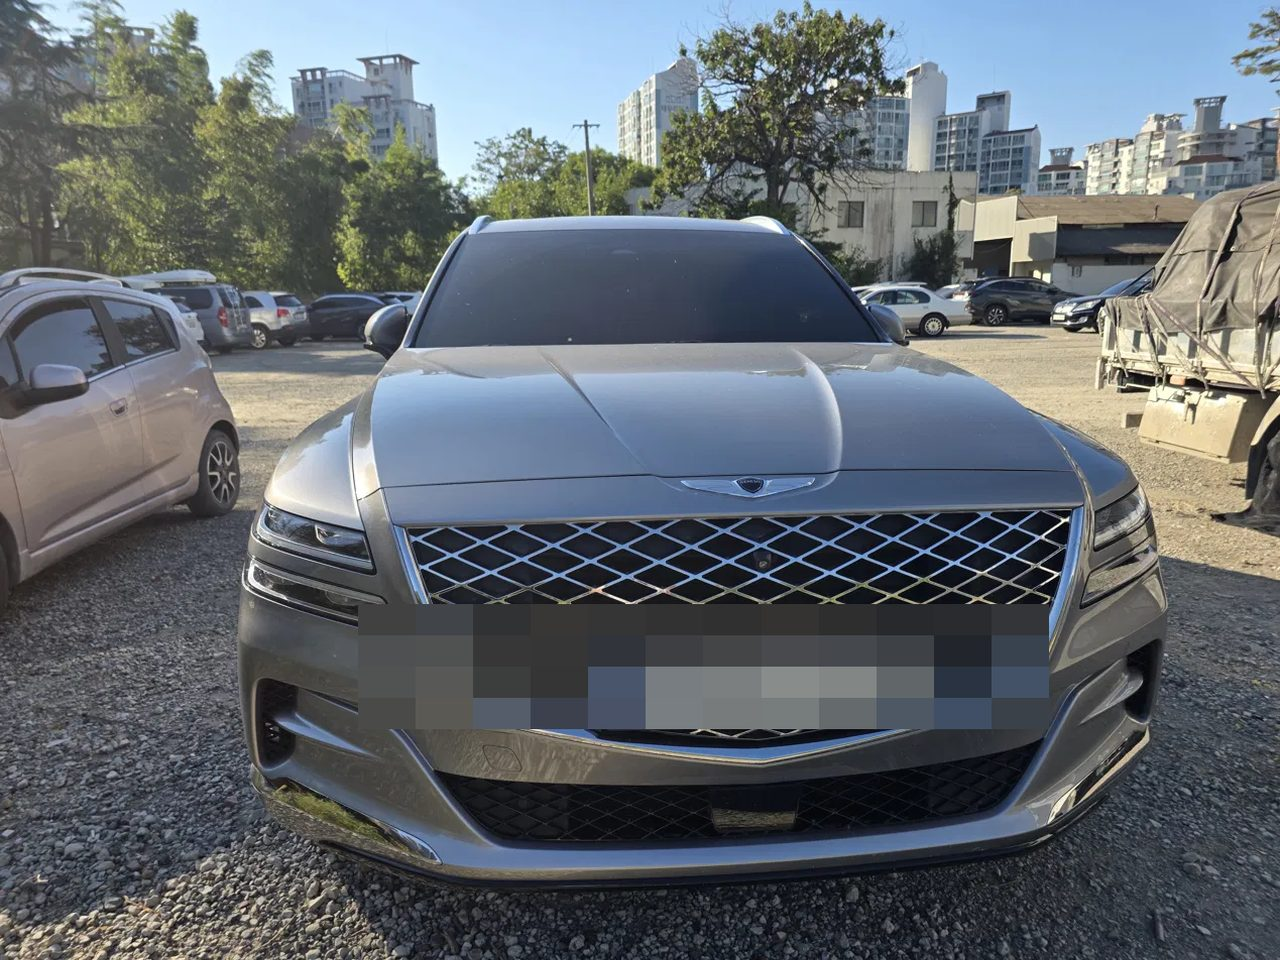
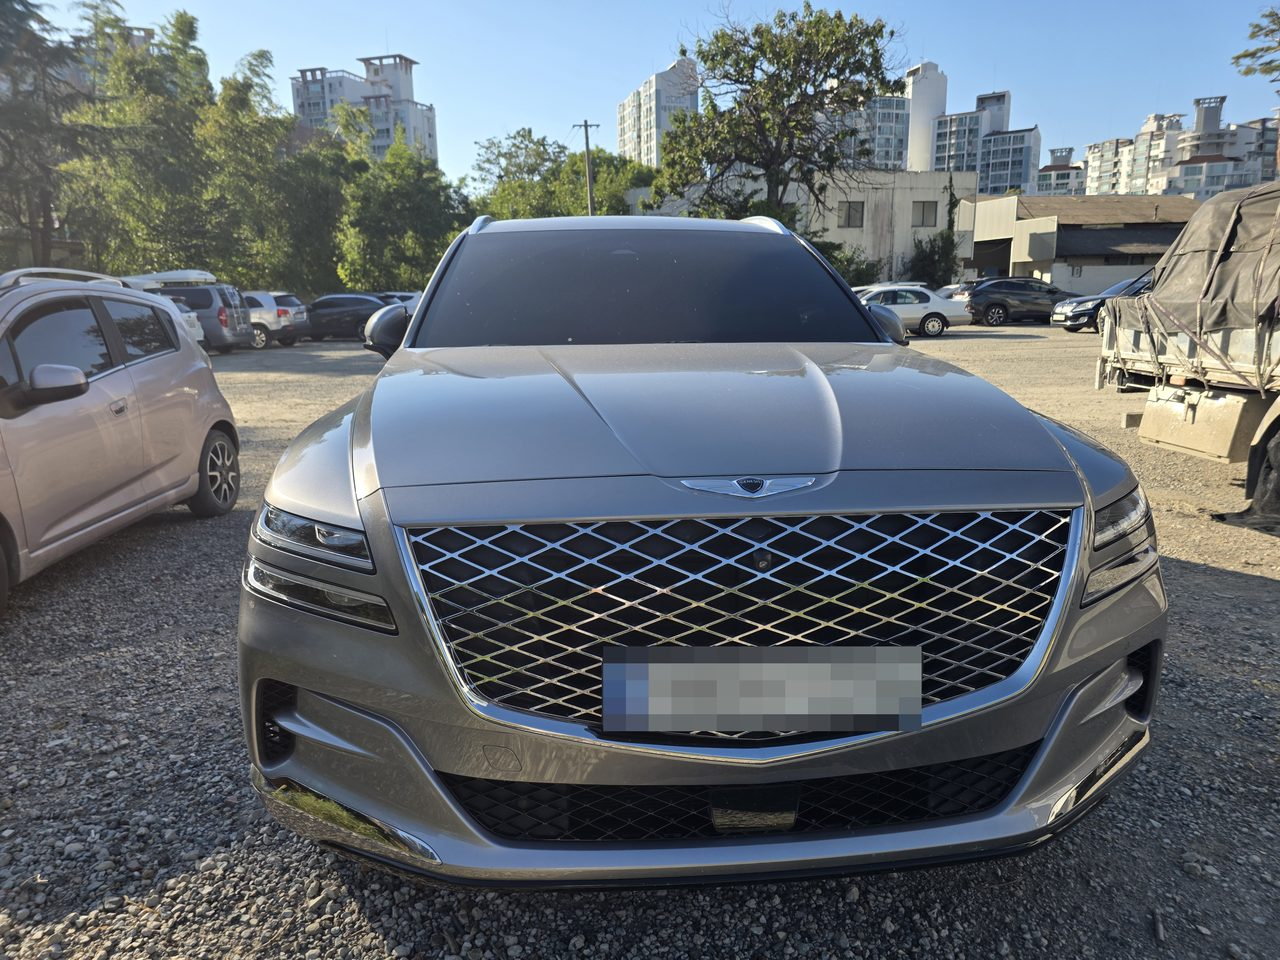
Limit front-before mosaic to license plate only

Changed region(s): [[0.2812, 0.625, 0.8438, 0.7812], [0.2812, 0.7188, 0.3125, 0.7812]]

diff --git a/service-worker.js b/service-worker.js
@@ -1,4 +1,4 @@
-const CACHE = 'athome-carcare-v29';
+const CACHE = 'athome-carcare-v30';
 const ASSETS = [
   './', './index.html', './styles.css?v=20260916-1line', './home-polish.css?v=20260916-nohero1', './restore-classic.js?v=20260916-2', './compat-fix.js?v=20260916-3', './app.js?v=20260916-note2', './supabase-integration.js?v=20260916-adminfix', './manifest.webmanifest?v=20260916-icon1', './data/content.json',
   './icons/icon.svg', './icons/icon-192.png?v=20260916-icon2', './icons/icon-512.png?v=20260916-icon2',
